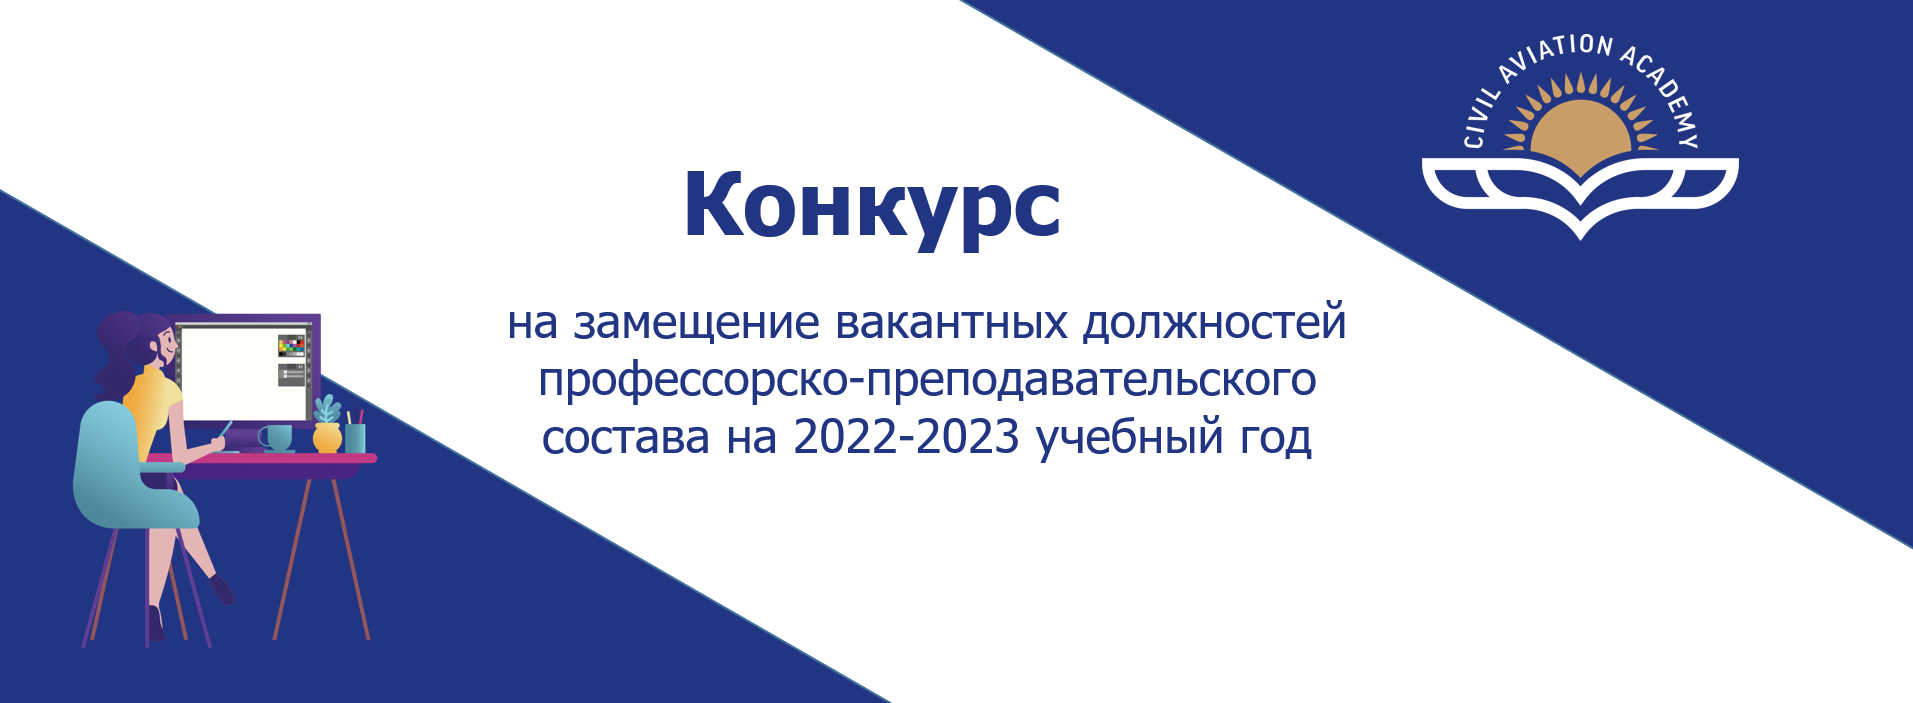
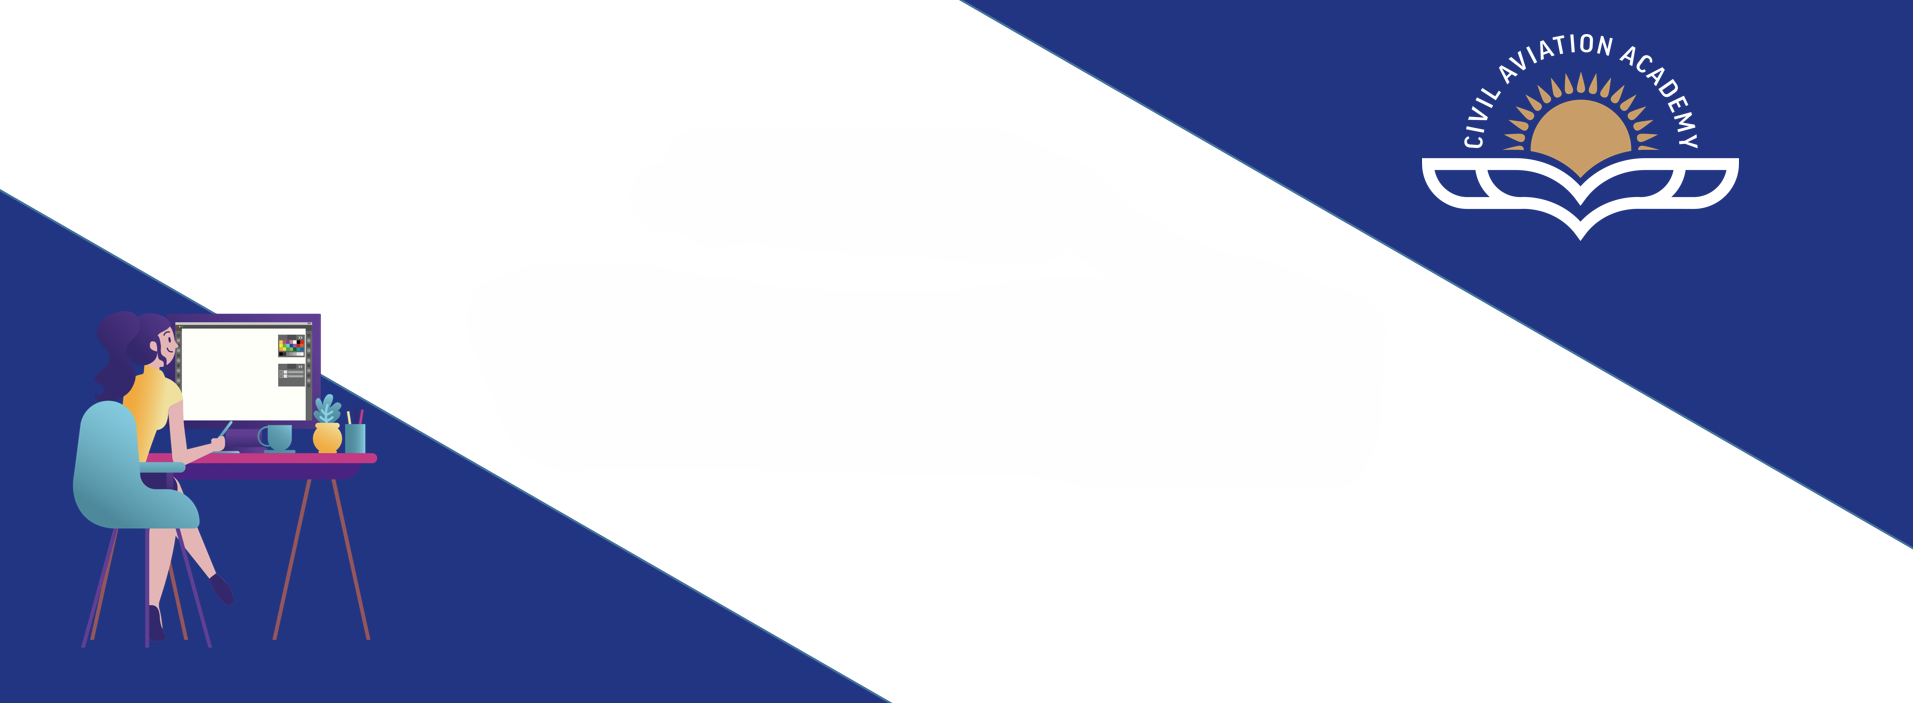
vacancies to slider

Changed region(s): [[0.2467, 0.4182, 0.7094, 0.5676], [0.2776, 0.5974, 0.7094, 0.6572], [0.3393, 0.239, 0.5551, 0.3585]]

diff --git a/resources/views/front/index.blade.php b/resources/views/front/index.blade.php
@@ -40,6 +40,23 @@
                 </div>
             </div><!--/.item-->
             <div class="item"
+                style="background: linear-gradient(rgba(0, 0, 0, 0.5), rgba(0, 0, 0, 0.5)), url(/assets/images/slider/Screenshot_7.png);width: 100%; background-size: cover; background-position: center;">
+                <div class="slider-inner">
+                    <div class="container">
+                        <div class="row">
+                            <div class="col-sm-12 text-center">
+                                <div class="carousel-content">
+                                    <h2>{{ __('АО «Академия гражданской авиации» объявляет конкурс на замещение вакантных должностей ППС на 2024-2025 учебный год') }}</h2>
+                                    <a class="btn btn-primary btn-lg"
+                                        href="{!! env('APP_URL') !!}vakansii">Перейти на
+                                        страницу</a>
+                                </div>
+                            </div>
+                        </div>
+                    </div>
+                </div>
+            </div><!--/.item-->
+            <div class="item"
                 style="background: linear-gradient(rgba(0, 0, 0, 0.5), rgba(0, 0, 0, 0.5)), url(/assets/images/slider/open_academy.png);width: 100%; background-size: cover; background-position: center;">
                 <div class="slider-inner">
                     <div class="container">
